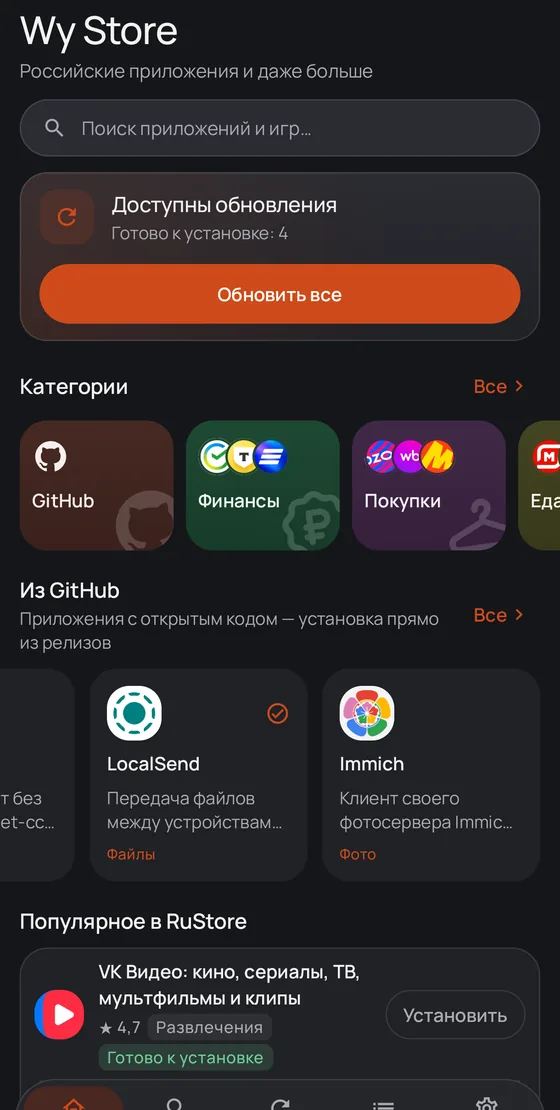
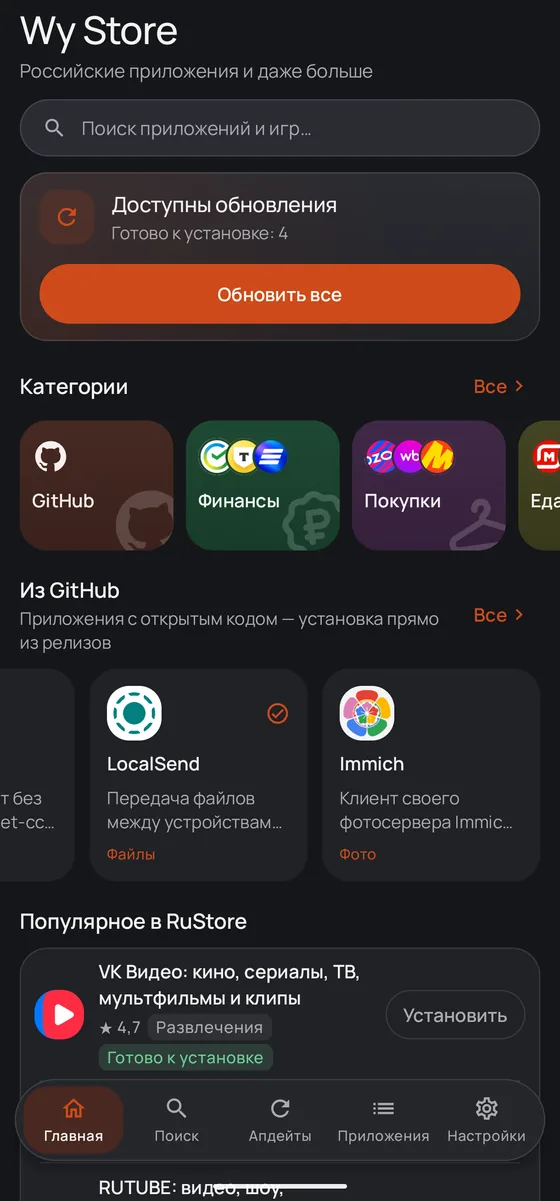
Crop the site's phone screenshots below the status bar
The phone frame on the landing page gained its own HTML status bar, but the six screenshots inside it still carried the Android status bar in their top 80 pixels and were pushed down by the new header, cropping the bottom navigation bar in half. Cropping the status bar strip from the screenshots and adjusting the screen aspect ratio keeps the full app screen and bottom bar visible under the frame's status bar.

diff --git a/docs/be/index.html b/docs/be/index.html
@@ -276,12 +276,12 @@
   <div class="stagepane" aria-hidden="true">
     <div class="phone">
       <div class="screen">
-        <img class="scr is-on" data-name="home" src="../assets/img/shots/ru-home.webp" width="560" height="1110" alt="">
-        <img class="scr" decoding="async" data-name="search" data-src="../assets/img/shots/ru-search.webp" width="560" height="1110" alt="">
-        <img class="scr" decoding="async" data-name="github" data-src="../assets/img/shots/ru-github.webp" width="560" height="1110" alt="">
-        <img class="scr" decoding="async" data-name="app" data-src="../assets/img/shots/ru-app.webp" width="560" height="1110" alt="">
-        <img class="scr" decoding="async" data-name="updates" data-src="../assets/img/shots/ru-updates.webp" width="560" height="1110" alt="">
-        <img class="scr" decoding="async" data-name="library" data-src="../assets/img/shots/ru-library.webp" width="560" height="1110" alt="">
+        <img class="scr is-on" data-name="home" src="../assets/img/shots/ru-home.webp" width="560" height="1201" alt="">
+        <img class="scr" decoding="async" data-name="search" data-src="../assets/img/shots/ru-search.webp" width="560" height="1201" alt="">
+        <img class="scr" decoding="async" data-name="github" data-src="../assets/img/shots/ru-github.webp" width="560" height="1201" alt="">
+        <img class="scr" decoding="async" data-name="app" data-src="../assets/img/shots/ru-app.webp" width="560" height="1201" alt="">
+        <img class="scr" decoding="async" data-name="updates" data-src="../assets/img/shots/ru-updates.webp" width="560" height="1201" alt="">
+        <img class="scr" decoding="async" data-name="library" data-src="../assets/img/shots/ru-library.webp" width="560" height="1201" alt="">
       </div>
     </div>
   </div>

diff --git a/docs/kk/index.html b/docs/kk/index.html
@@ -276,12 +276,12 @@
   <div class="stagepane" aria-hidden="true">
     <div class="phone">
       <div class="screen">
-        <img class="scr is-on" data-name="home" src="../assets/img/shots/ru-home.webp" width="560" height="1110" alt="">
-        <img class="scr" decoding="async" data-name="search" data-src="../assets/img/shots/ru-search.webp" width="560" height="1110" alt="">
-        <img class="scr" decoding="async" data-name="github" data-src="../assets/img/shots/ru-github.webp" width="560" height="1110" alt="">
-        <img class="scr" decoding="async" data-name="app" data-src="../assets/img/shots/ru-app.webp" width="560" height="1110" alt="">
-        <img class="scr" decoding="async" data-name="updates" data-src="../assets/img/shots/ru-updates.webp" width="560" height="1110" alt="">
-        <img class="scr" decoding="async" data-name="library" data-src="../assets/img/shots/ru-library.webp" width="560" height="1110" alt="">
+        <img class="scr is-on" data-name="home" src="../assets/img/shots/ru-home.webp" width="560" height="1201" alt="">
+        <img class="scr" decoding="async" data-name="search" data-src="../assets/img/shots/ru-search.webp" width="560" height="1201" alt="">
+        <img class="scr" decoding="async" data-name="github" data-src="../assets/img/shots/ru-github.webp" width="560" height="1201" alt="">
+        <img class="scr" decoding="async" data-name="app" data-src="../assets/img/shots/ru-app.webp" width="560" height="1201" alt="">
+        <img class="scr" decoding="async" data-name="updates" data-src="../assets/img/shots/ru-updates.webp" width="560" height="1201" alt="">
+        <img class="scr" decoding="async" data-name="library" data-src="../assets/img/shots/ru-library.webp" width="560" height="1201" alt="">
       </div>
     </div>
   </div>

diff --git a/docs/uk/index.html b/docs/uk/index.html
@@ -276,12 +276,12 @@
   <div class="stagepane" aria-hidden="true">
     <div class="phone">
       <div class="screen">
-        <img class="scr is-on" data-name="home" src="../assets/img/shots/ru-home.webp" width="560" height="1110" alt="">
-        <img class="scr" decoding="async" data-name="search" data-src="../assets/img/shots/ru-search.webp" width="560" height="1110" alt="">
-        <img class="scr" decoding="async" data-name="github" data-src="../assets/img/shots/ru-github.webp" width="560" height="1110" alt="">
-        <img class="scr" decoding="async" data-name="app" data-src="../assets/img/shots/ru-app.webp" width="560" height="1110" alt="">
-        <img class="scr" decoding="async" data-name="updates" data-src="../assets/img/shots/ru-updates.webp" width="560" height="1110" alt="">
-        <img class="scr" decoding="async" data-name="library" data-src="../assets/img/shots/ru-library.webp" width="560" height="1110" alt="">
+        <img class="scr is-on" data-name="home" src="../assets/img/shots/ru-home.webp" width="560" height="1201" alt="">
+        <img class="scr" decoding="async" data-name="search" data-src="../assets/img/shots/ru-search.webp" width="560" height="1201" alt="">
+        <img class="scr" decoding="async" data-name="github" data-src="../assets/img/shots/ru-github.webp" width="560" height="1201" alt="">
+        <img class="scr" decoding="async" data-name="app" data-src="../assets/img/shots/ru-app.webp" width="560" height="1201" alt="">
+        <img class="scr" decoding="async" data-name="updates" data-src="../assets/img/shots/ru-updates.webp" width="560" height="1201" alt="">
+        <img class="scr" decoding="async" data-name="library" data-src="../assets/img/shots/ru-library.webp" width="560" height="1201" alt="">
       </div>
     </div>
   </div>

diff --git a/docs/uz/index.html b/docs/uz/index.html
@@ -279,12 +279,12 @@
   <div class="stagepane" aria-hidden="true">
     <div class="phone">
       <div class="screen">
-        <img class="scr is-on" data-name="home" src="../assets/img/shots/ru-home.webp" width="560" height="1110" alt="">
-        <img class="scr" decoding="async" data-name="search" data-src="../assets/img/shots/ru-search.webp" width="560" height="1110" alt="">
-        <img class="scr" decoding="async" data-name="github" data-src="../assets/img/shots/ru-github.webp" width="560" height="1110" alt="">
-        <img class="scr" decoding="async" data-name="app" data-src="../assets/img/shots/ru-app.webp" width="560" height="1110" alt="">
-        <img class="scr" decoding="async" data-name="updates" data-src="../assets/img/shots/ru-updates.webp" width="560" height="1110" alt="">
-        <img class="scr" decoding="async" data-name="library" data-src="../assets/img/shots/ru-library.webp" width="560" height="1110" alt="">
+        <img class="scr is-on" data-name="home" src="../assets/img/shots/ru-home.webp" width="560" height="1201" alt="">
+        <img class="scr" decoding="async" data-name="search" data-src="../assets/img/shots/ru-search.webp" width="560" height="1201" alt="">
+        <img class="scr" decoding="async" data-name="github" data-src="../assets/img/shots/ru-github.webp" width="560" height="1201" alt="">
+        <img class="scr" decoding="async" data-name="app" data-src="../assets/img/shots/ru-app.webp" width="560" height="1201" alt="">
+        <img class="scr" decoding="async" data-name="updates" data-src="../assets/img/shots/ru-updates.webp" width="560" height="1201" alt="">
+        <img class="scr" decoding="async" data-name="library" data-src="../assets/img/shots/ru-library.webp" width="560" height="1201" alt="">
       </div>
     </div>
   </div>

diff --git a/docs/index.html b/docs/index.html
@@ -278,12 +278,12 @@
   <div class="stagepane" aria-hidden="true">
     <div class="phone">
       <div class="screen">
-        <img class="scr is-on" data-name="home" src="./assets/img/shots/ru-home.webp" width="560" height="1110" alt="">
-        <img class="scr" decoding="async" data-name="search" data-src="./assets/img/shots/ru-search.webp" width="560" height="1110" alt="">
-        <img class="scr" decoding="async" data-name="github" data-src="./assets/img/shots/ru-github.webp" width="560" height="1110" alt="">
-        <img class="scr" decoding="async" data-name="app" data-src="./assets/img/shots/ru-app.webp" width="560" height="1110" alt="">
-        <img class="scr" decoding="async" data-name="updates" data-src="./assets/img/shots/ru-updates.webp" width="560" height="1110" alt="">
-        <img class="scr" decoding="async" data-name="library" data-src="./assets/img/shots/ru-library.webp" width="560" height="1110" alt="">
+        <img class="scr is-on" data-name="home" src="./assets/img/shots/ru-home.webp" width="560" height="1201" alt="">
+        <img class="scr" decoding="async" data-name="search" data-src="./assets/img/shots/ru-search.webp" width="560" height="1201" alt="">
+        <img class="scr" decoding="async" data-name="github" data-src="./assets/img/shots/ru-github.webp" width="560" height="1201" alt="">
+        <img class="scr" decoding="async" data-name="app" data-src="./assets/img/shots/ru-app.webp" width="560" height="1201" alt="">
+        <img class="scr" decoding="async" data-name="updates" data-src="./assets/img/shots/ru-updates.webp" width="560" height="1201" alt="">
+        <img class="scr" decoding="async" data-name="library" data-src="./assets/img/shots/ru-library.webp" width="560" height="1201" alt="">
       </div>
     </div>
   </div>

diff --git a/docs/assets/style.css b/docs/assets/style.css
@@ -829,7 +829,7 @@ code {
   position: relative;
   height: min(100%, 760px);
   width: auto;
-  aspect-ratio: var(--shot, 560 / 1110);
+  aspect-ratio: 560 / 1210;
   padding: 9px;
   background: linear-gradient(155deg, #4a4b53 0%, #22232a 22%, #17181d 55%, #25262d 82%, #45464e 100%);
   border-radius: 36px;
@@ -1043,7 +1043,7 @@ html[data-scene="privacy"] .stagepane {
   .phone {
     height: auto;
     width: min(76vw, 330px);
-    aspect-ratio: var(--shot, 560 / 1110);
+    aspect-ratio: 560 / 1210;
     padding: 8px;
     border-radius: 32px;
   }

diff --git a/docs/en/index.html b/docs/en/index.html
@@ -257,7 +257,7 @@
   </div>
 
   <div class="stagepane" aria-hidden="true">
-    <div class="phone" style="--shot: 560 / 1201">
+    <div class="phone">
       <div class="screen">
         <img class="scr is-on" data-name="home" src="../assets/img/shots/en-home.webp" width="560" height="1201" alt="">
         <img class="scr" decoding="async" data-name="app" data-src="../assets/img/shots/en-app.webp" width="560" height="1201" alt="">

diff --git a/docs/lv/index.html b/docs/lv/index.html
@@ -259,7 +259,7 @@
   </div>
 
   <div class="stagepane" aria-hidden="true">
-    <div class="phone" style="--shot: 560 / 1201">
+    <div class="phone">
       <div class="screen">
         <img class="scr is-on" data-name="home" src="../assets/img/shots/en-home.webp" width="560" height="1201" alt="">
         <img class="scr" decoding="async" data-name="app" data-src="../assets/img/shots/en-app.webp" width="560" height="1201" alt="">

diff --git a/docs/zh/index.html b/docs/zh/index.html
@@ -249,7 +249,7 @@
   </div>
 
   <div class="stagepane" aria-hidden="true">
-    <div class="phone" style="--shot: 560 / 1201">
+    <div class="phone">
       <div class="screen">
         <img class="scr is-on" data-name="home" src="../assets/img/shots/en-home.webp" width="560" height="1201" alt="">
         <img class="scr" decoding="async" data-name="app" data-src="../assets/img/shots/en-app.webp" width="560" height="1201" alt="">
